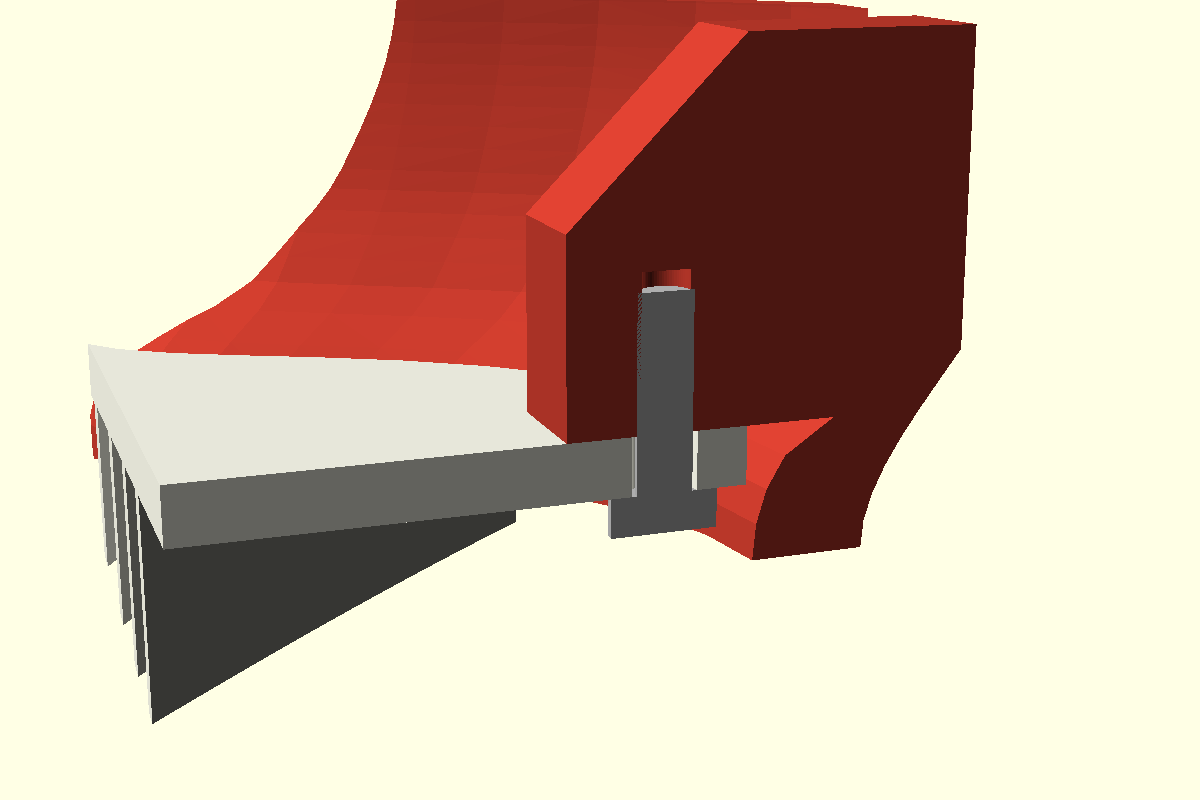
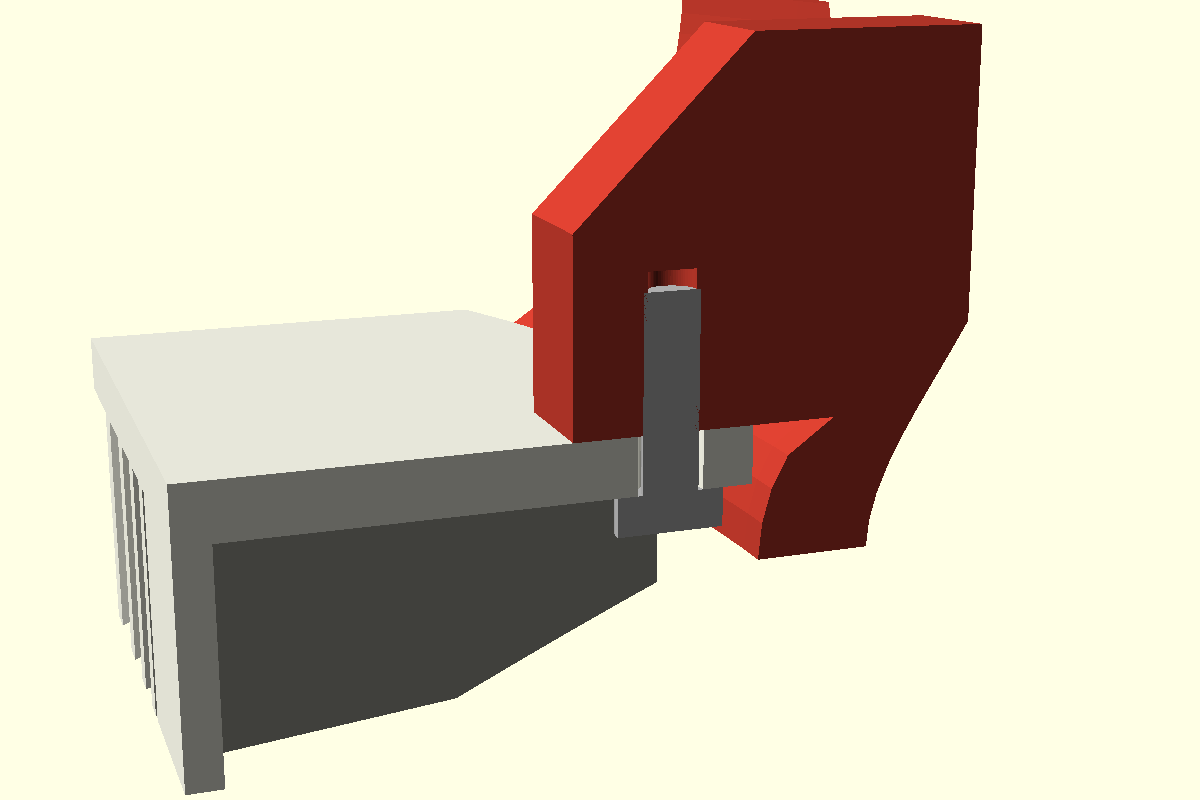
hw: regenerate mushroom renders for the elliptic cap

diff --git a/openscad/README.md b/openscad/README.md
@@ -113,7 +113,7 @@ Decorative fly-agaric variant, which does not replace the wall box. The cap is o
 
 Parts:
 
-- **Dome** (`cap`) ~147 × 147 × 190 mm (average max radius 72): **gourd** after a sketch, meridian `cap_shape` (wide bottom, waist Ø~55, top Ø~72), **elliptic outline** (see below). From the narrowing zone (`cap_neck`) up, the top leans 8° towards −X (`cap_lean`, against the cap tilt), to bring the mass back over the stem axis: top ~6 mm from the stem axis on the +X side. The board is turned 180° in the chassis so that the top stays right above **J1 "RADIO"** (433 MHz module), along the board axis (`cap_top` is computed), 126 mm above the board. **Vent** Ø5 (`vent_d`): from the ceiling tip, it runs ~15° down towards the rear flank (+Y), with no dots around it; rain stays out and warm air leaves, opposite J1. The bulk of the bottom goes the other way, towards the flare of the stem. Inner ceiling conical at 45°, no support: the top is solid under the tip. Its edge drops 4 mm below the gill disc (hides its edge) and thickens inwards to **6 mm wide** (`rim_w`, 45° blend): ~2.4 times more bed contact for a 190 mm high part, same silhouette. Fixing: 3 **corbels** on the inner wall, just above the disc (`corbel_*`: 12 mm wide, 10 mm straight face then 45° chamfer to the wall, Ø2.5 × 8 pilot hole); the disc rises into the dome and is pulled against them by 3 M3 × 10 self-tapping screws from below, heads under the disc between the gills. ![Section through a corbel](rendu_champignon_console.png)
+- **Dome** (`cap`) ~161 × 129 × 190 mm (ellipse of mean max radius 72): **gourd** after a sketch, meridian `cap_shape` (wide bottom, waist Ø~55, top Ø~72), **elliptic outline** (see below). From the narrowing zone (`cap_neck`) up, the top leans 8° towards −X (`cap_lean`, against the cap tilt), to bring the mass back over the stem axis: top ~6 mm from the stem axis on the +X side. The board is turned 180° in the chassis so that the top stays right above **J1 "RADIO"** (433 MHz module), along the board axis (`cap_top` is computed), 126 mm above the board. **Vent** Ø5 (`vent_d`): from the ceiling tip, it runs ~15° down towards the rear flank (+Y), with no dots around it; rain stays out and warm air leaves, opposite J1. The bulk of the bottom goes the other way, towards the flare of the stem. Inner ceiling conical at 45°, no support: the top is solid under the tip. Its edge drops 4 mm below the gill disc (hides its edge) and thickens inwards to **6 mm wide** (`rim_w`, 45° blend): ~2.4 times more bed contact for a 190 mm high part, same silhouette. Fixing: 3 **corbels** on the inner wall, just above the disc (`corbel_*`: 12 mm wide, 10 mm straight face then 45° chamfer to the wall, Ø2.5 × 8 pilot hole); the disc rises into the dome and is pulled against them by 3 M3 × 10 self-tapping screws from below, heads under the disc between the gills. ![Section through a corbel](rendu_champignon_console.png)
 - **Gills** (`gills`): disc closing the underside of the cap, following the narrowest outline of the dome skirt minus 0.4 mm (`disc_fit`) to clear the skirt, 48 radial blades deeper near the stem (`gill_depth`), vent slots between the blades under the sensor chamber (including on the +X side, at 0° and ±7.5°, flush with the +X edge of the BME280), USB socket opening, central sleeve taking the stem tenon. Prints blades up.
 - **Chassis** (`chassis`) screwed onto the disc (4 M3 screws from below), printed upright:
   - lower chamber (48 mm, `chamber_h`), ventilated: **BME280 plugged under the board**, no wire or slide (see *Wiring*); the breakout hangs parallel to the board, sensor towards the disc, 42 mm above the disc; chassis windows at the top of the chamber (`win_h`), so that air flows past the sensor. The top of the cradle goes 30 mm through the disc (Ø37 hole, `disc_bore`) and ends 12 mm below the breakout, with the JST-XH pair;
